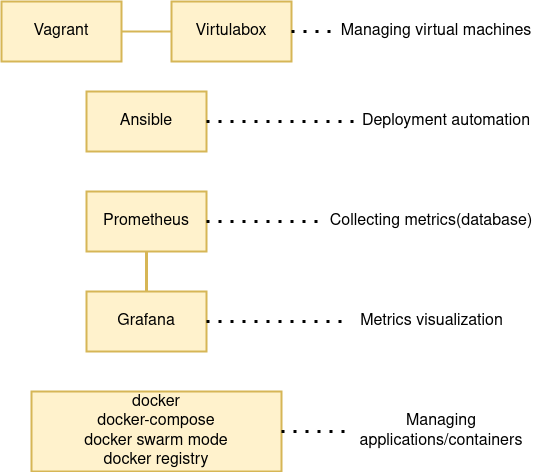
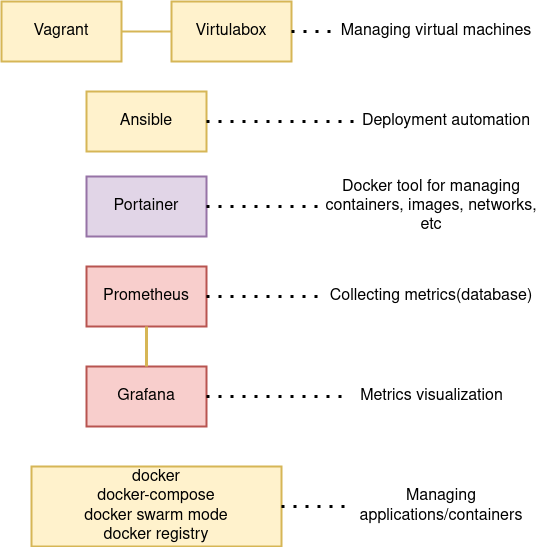
Updating READMEs

diff --git a/README.md b/README.md
@@ -37,16 +37,21 @@ Tough environment example below is much closer to real case:
 * h2
     * database
     * metrics exporter
+    * agent (docker proxy for Portainer)
 * h3
     * auth server
     * metrics exporter
+    * agent (docker proxy for Portainer)
 * h4
     * memcached for storing sessions
     * metrics exporter
+    * agent (docker proxy for Portainer)
 * h5
     * app server
     * metrics exporter
+    * agent (docker proxy for Portainer)
 * h6
+    * Portainer - docker managment tool (web server)
     * Prometheus - metrics database (web server)
     * Grafana - metrics visualization tool (web server)
 <p align="center">
@@ -54,7 +59,8 @@ Tough environment example below is much closer to real case:
 </p>
 
 
-**_metrics exporter_** in this case is a simple http server which reports correspondng metrics to **_Prometheus_**
+**_metrics exporter_** in this case is a simple http server which reports correspondng metrics to **_Prometheus_**\
+**_agent_** in this case is a docker engine proxy ustilized by  **_Portainer_**
 
 ---
 
@@ -222,6 +228,38 @@ Installing Ansible is another piece of cake, here is shell script which will do 
 $ cd env
 $ sudo ansible.install.sh
 ```
+
+---
+
+### [Portainer](https://documentation.portainer.io/)
+Portainer is powerful tool for managing docker engine, i.e. containers, images, networks, stacks, etc..\
+Consists of 2 parts:
+* Portainer itself, web server providing UI for managing docker engine - launching containers, and everything what docker can do
+* Portainer agent - a proxy for ruling docker-engines located at another hosts
+
+#### Portainer installation
+Portainer is not meant for installation on main(working) host directly.\
+Portainer is meant to be installed on a single host conforming the environment.\
+Portainer agent is meant to be installed on every host(excluding host with Portainer) conforming the environment.\
+
+Down here are some exampleis what Portainer looks like.
+
+<p align="center">
+    <img width="60%" height="60%" src="images/Portainer1.png">
+</p>
+
+---
+
+<p align="center">
+    <img width="60%" height="60%" src="images/Portainer2.png">
+</p>
+
+---
+
+<p align="center">
+    <img width="60%" height="60%" src="images/Portainer3.png">
+</p>
+
 
 ---
 
